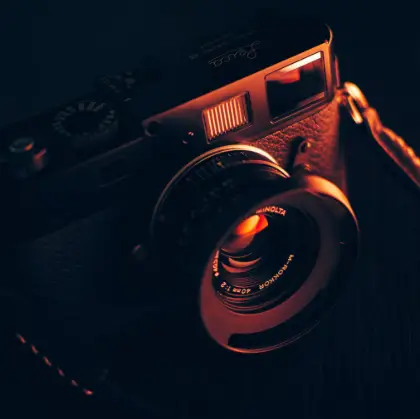
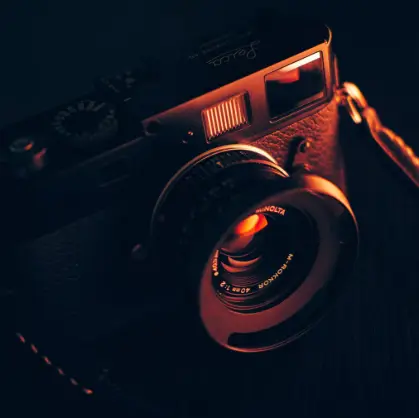
nouvelle redimension et compression des photos

diff --git a/assets/style.css b/assets/style.css
@@ -81,7 +81,7 @@ body {
 	font-size: 30px;
 }
 .about-me__introduction {
-	font-family: 'Spectral';
+	/* font-family: 'Spectral'; */
 	font-weight: 800;
 	font-style: italic;
 	width: 60%;
